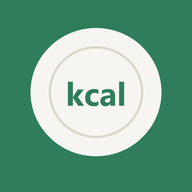
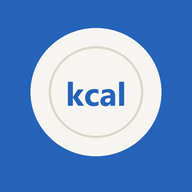
Akzentfarbe blau statt gruen, Protein wird gruen
Protein war vorher blau und haette sich mit dem neuen Akzent verwechseln
lassen.

diff --git a/stil.css b/stil.css
@@ -4,10 +4,10 @@
   --tinte: #1d1f1b;
   --leise: #6b6e66;
   --linie: #e4e2dc;
-  --akzent: #2f7d5b;
+  --akzent: #2563b8;
   --akzent-text: #ffffff;
   --warn: #b5502f;
-  --protein: #3d6fb6;
+  --protein: #2f8a5b;
   --kh: #d39a2c;
   --fett: #b5502f;
   --schatten: 0 1px 2px rgb(0 0 0 / 6%), 0 4px 16px rgb(0 0 0 / 5%);
@@ -19,10 +19,10 @@
     --tinte: #ecebe6;
     --leise: #9a9d94;
     --linie: #33362f;
-    --akzent: #5fbf91;
-    --akzent-text: #0f1a14;
+    --akzent: #6aa6f2;
+    --akzent-text: #0b1626;
     --warn: #e0866a;
-    --protein: #7aa5e8;
+    --protein: #6cc79a;
     --kh: #e8b955;
     --fett: #e0866a;
     --schatten: none;
